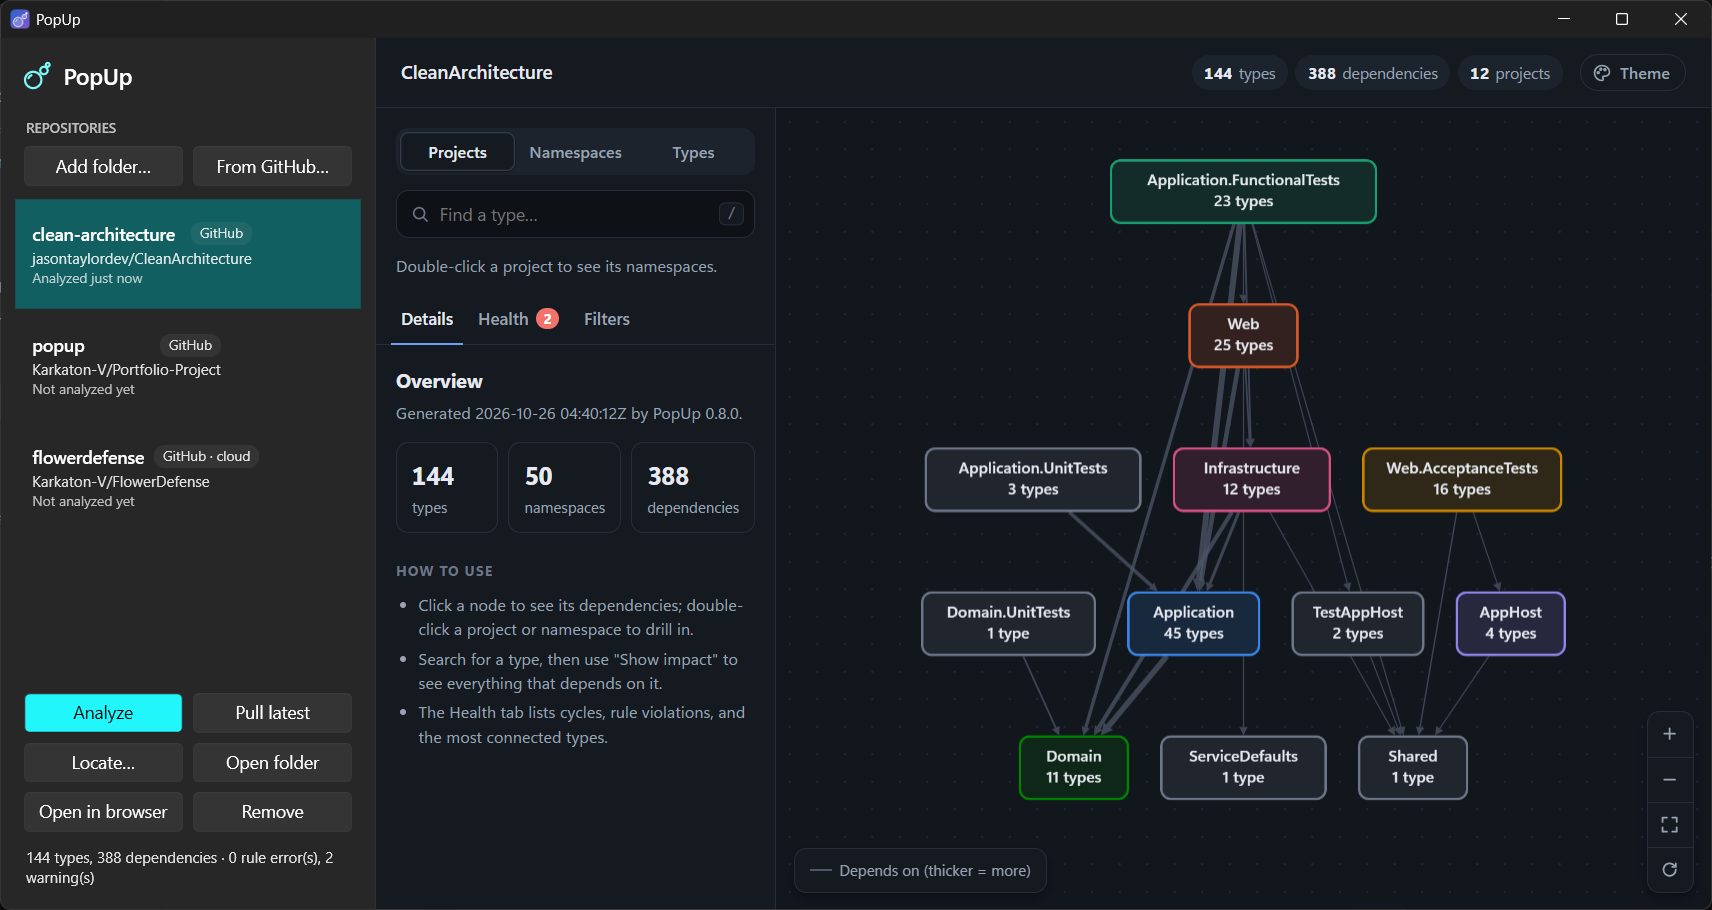
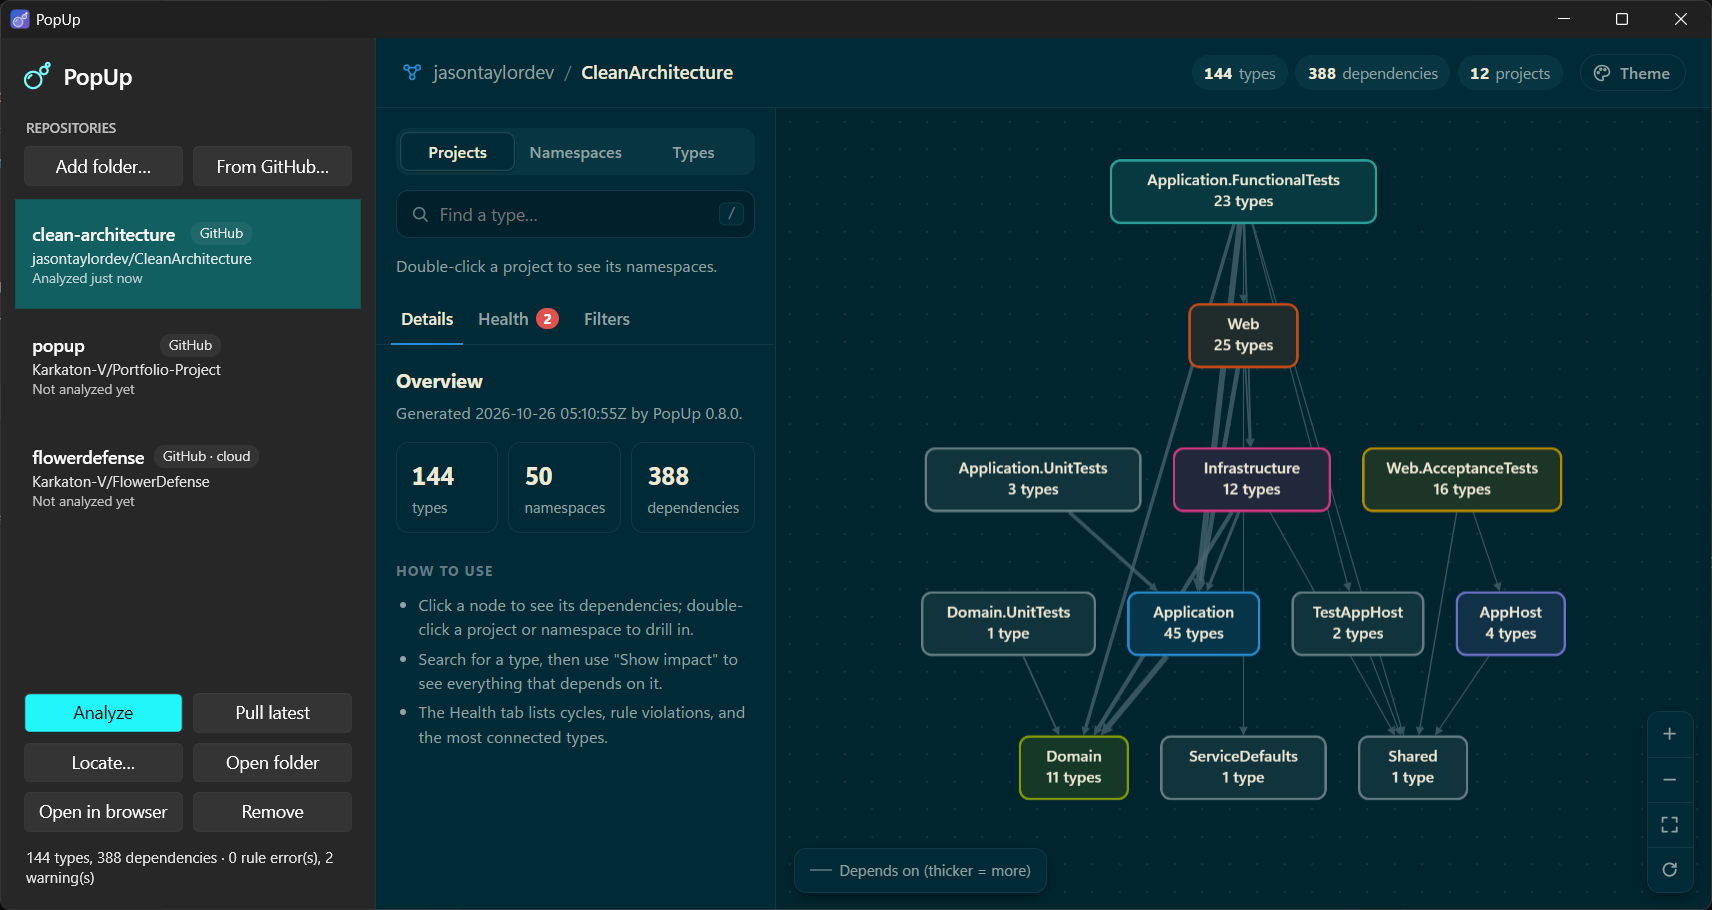
Show where a report's code comes from, and shorten sidebar paths
- Report header: a folder icon with "parent folder / project", or the
  connected-nodes icon with "owner / repository" (owner links to GitHub).
  In the desktop app it replaces the hidden PopUp brand; a standalone
  report shows both.
- The desktop app takes folder vs. GitHub from the saved entry so the
  header matches the sidebar badge; the CLI and the analyze workflow read
  the Git origin.
- Sidebar folder paths with more than two folders are shortened to
  C:/First/.../Last (the tooltip keeps the full path).

diff --git a/src/PopUp.Report/Assets/report.js b/src/PopUp.Report/Assets/report.js
@@ -1142,9 +1142,37 @@
     if (!themePopover.hidden) renderThemePicker();
   });
 
+  // ---------- where the code comes from ----------
+
+  // Fixed icon markup (never data): a folder, or connected nodes for a GitHub repository.
+  const SOURCE_ICONS = {
+    Folder: '<path d="M3 7.5A1.5 1.5 0 0 1 4.5 6h4.3l2 2.2h8.7A1.5 1.5 0 0 1 21 9.7v8.8a1.5 1.5 0 0 1-1.5 1.5h-15A1.5 1.5 0 0 1 3 18.5z" />',
+    GitHub: '<path d="M6 7l6 10M18 7l-6 10M6 7h12" /><circle cx="6" cy="7" r="2.6" /><circle cx="18" cy="7" r="2.6" /><circle cx="12" cy="17" r="2.6" />',
+  };
+
+  // Shows "icon owner /" (GitHub) or "icon parent folder /" before the title.
+  function showSource(source) {
+    const icon = document.createElementNS('http://www.w3.org/2000/svg', 'svg');
+    icon.setAttribute('viewBox', '0 0 24 24');
+    icon.setAttribute('class', 'source-icon');
+    icon.setAttribute('aria-hidden', 'true');
+    icon.innerHTML = SOURCE_ICONS[source.kind] ?? SOURCE_ICONS.Folder;
+
+    const isLink = typeof source.link === 'string' && source.link.startsWith('https://');
+    const owner = isLink
+      ? el('a', { href: source.link, target: '_blank', rel: 'noopener', text: source.owner })
+      : el('span', { text: source.owner });
+
+    const container = document.getElementById('source');
+    container.title = source.kind === 'GitHub' ? 'A GitHub repository' : 'A folder on this computer';
+    container.replaceChildren(icon, owner, el('span', { class: 'crumb-sep', 'aria-hidden': 'true', text: '/' }));
+    container.hidden = false;
+  }
+
   // ---------- start ----------
 
   document.getElementById('title').textContent = data.title;
+  if (data.source) showSource(data.source);
   const stats = [[data.nodes.length, 'types'], [data.edges.length, 'dependencies'], [projectCounts.size, 'projects']];
   document.getElementById('stats').replaceChildren(...stats.map(([value, label]) =>
     el('div', {}, el('dt', { text: label }), el('dd', { text: String(value) }))));

diff --git a/src/PopUp.Report/Assets/report.css b/src/PopUp.Report/Assets/report.css
@@ -197,6 +197,16 @@ svg { fill: none; stroke: currentColor; stroke-width: 2; stroke-linecap: round; 
 
 .divider { width: 1px; height: 20px; background: var(--border-strong); }
 
+.crumb { display: flex; align-items: center; gap: 8px; min-width: 0; }
+
+.source { display: flex; align-items: center; gap: 8px; flex: none; color: var(--muted); font-size: 15px; white-space: nowrap; }
+.source[hidden] { display: none; }
+.source a { color: inherit; text-decoration: none; }
+.source a:hover { color: var(--text); text-decoration: underline; }
+.source-icon { width: 18px; height: 18px; flex: none; color: var(--accent); stroke-width: 1.8; }
+.source-icon circle { fill: var(--accent-soft); }
+.crumb-sep { color: var(--faint); }
+
 .topbar h1 {
   margin: 0;
   font-size: 15px;

diff --git a/src/PopUp.Report/Assets/report.html b/src/PopUp.Report/Assets/report.html
@@ -19,7 +19,11 @@
       <span>PopUp</span>
     </div>
     <span class="divider" aria-hidden="true"></span>
-    <h1 id="title"></h1>
+    <div class="crumb">
+      <!-- "icon owner /" for GitHub, "icon parent folder /" for a folder; filled in by the script when known. -->
+      <span class="source" id="source" hidden></span>
+      <h1 id="title"></h1>
+    </div>
     <dl class="stats" id="stats"></dl>
     <div class="theme-menu">
       <button type="button" class="theme-button" id="theme-button" aria-haspopup="true" aria-expanded="false" aria-controls="theme-popover">

diff --git a/src/PopUp.Repos/LocalRepoFinder.cs b/src/PopUp.Repos/LocalRepoFinder.cs
@@ -2,6 +2,10 @@ using System.Text.RegularExpressions;
 
 namespace PopUp.Repos;
 
+/// <summary>Where some code lives: "owner / name" on GitHub, or "parent folder / folder" on this computer.</summary>
+/// <param name="GitHub">The GitHub repository, when the code is a clone of one.</param>
+public sealed record CodeLocation(string Owner, string Name, GitHubRepoRef? GitHub);
+
 /// <summary>
 /// Finds clones of GitHub repositories that already exist on this computer, so PopUp can use them
 /// instead of downloading another copy. A folder counts when it's a Git repository whose <c>origin</c>
@@ -92,6 +96,37 @@ public static partial class LocalRepoFinder
                 Search(child, levelsLeft - 1);
             }
         }
+    }
+
+    /// <summary>
+    /// Describes where the code in <paramref name="folder"/> comes from: the GitHub repository its Git
+    /// repository was cloned from, or otherwise the folder itself and the folder that contains it.
+    /// </summary>
+    public static CodeLocation Describe(string folder)
+    {
+        var full = System.IO.Path.TrimEndingDirectorySeparator(System.IO.Path.GetFullPath(folder));
+        var root = FindRoot(full) ?? full;
+        if (ReadOrigin(root) is { } origin)
+        {
+            return new CodeLocation(origin.Owner, origin.Name, origin);
+        }
+
+        return new CodeLocation(System.IO.Path.GetFileName(System.IO.Path.GetDirectoryName(root)) ?? "", System.IO.Path.GetFileName(root), null);
+    }
+
+    /// <summary>The folder of the Git repository that contains <paramref name="folder"/>, or null if it isn't in one.</summary>
+    public static string? FindRoot(string folder)
+    {
+        for (var current = new DirectoryInfo(folder); current is not null; current = current.Parent)
+        {
+            var git = System.IO.Path.Combine(current.FullName, ".git");
+            if (Directory.Exists(git) || File.Exists(git))
+            {
+                return current.FullName;
+            }
+        }
+
+        return null;
     }
 
     /// <summary>The GitHub repository a local clone's <c>origin</c> remote points at, or null.</summary>

diff --git a/src/PopUp.Cli/Commands/ReportCommand.cs b/src/PopUp.Cli/Commands/ReportCommand.cs
@@ -1,6 +1,7 @@
 using PopUp.Core;
 using PopUp.Core.Rules;
 using PopUp.Report;
+using PopUp.Repos;
 
 namespace PopUp.Cli.Commands;
 
@@ -32,9 +33,26 @@ internal static class ReportCommand
         var graph = await session.LoadGraphAsync(cancellationToken);
         var settings = session.Config?.Report ?? new ReportSettings();
 
+        // The header reads "owner / title" for a clone of a GitHub repository, "parent folder / title" otherwise.
+        // A report made from a saved graph.json has no folder to describe.
+        var input = arguments.Positionals.FirstOrDefault() ?? ".";
+        var fromFolder = Directory.Exists(input);
+        var location = session.Input.EndsWith(".json", StringComparison.OrdinalIgnoreCase)
+            ? null
+            : LocalRepoFinder.Describe(fromFolder ? input : session.InputDirectory);
+
         var html = HtmlReportWriter.Write(graph, new ReportOptions
         {
-            Title = arguments.Option("title") ?? settings.Title ?? Path.GetFileNameWithoutExtension(session.Input),
+            // Run on a folder, the title is the folder (or repository) name, like the desktop app; run on a
+            // solution or project file, it's that file's name.
+            Title = arguments.Option("title") ?? settings.Title
+                ?? (fromFolder && location is not null ? location.Name : Path.GetFileNameWithoutExtension(session.Input)),
+            Source = location switch
+            {
+                null => null,
+                { GitHub: { } gitHub } => new ReportSource(ReportSourceKind.GitHub, gitHub.Owner, gitHub.WebUrl),
+                _ => new ReportSource(ReportSourceKind.Folder, location.Owner),
+            },
             Theme = (arguments.Option("theme") ?? settings.Theme ?? ReportThemes.Default).ToLowerInvariant(),
             ToolVersion = CheckCommand.ToolVersion(),
             Check = session.Config is null ? null : ArchitectureChecker.Check(graph, session.Config),

diff --git a/src/PopUp.Desktop/ViewModels/RepoViewModel.cs b/src/PopUp.Desktop/ViewModels/RepoViewModel.cs
@@ -11,8 +11,8 @@ public sealed class RepoViewModel(RegisteredRepo repo, string reportsDirectory) 
 
     public string Name => Repo.Name;
 
-    /// <summary>"owner/name" for GitHub repositories, otherwise the folder.</summary>
-    public string Detail => Repo.GitHub ?? Repo.Path;
+    /// <summary>"owner/name" for GitHub repositories, otherwise the folder (shortened; the tooltip has it in full).</summary>
+    public string Detail => Repo.GitHub ?? Format.ShortPath(Repo.Path);
 
     public bool IsGitHub => Repo.GitHub is not null;
 
@@ -38,6 +38,19 @@ public sealed class RepoViewModel(RegisteredRepo repo, string reportsDirectory) 
 
 internal static class Format
 {
+    /// <summary>
+    /// A folder path short enough for the sidebar: with more than two folders, only the first and last are kept,
+    /// so <c>C:\Users\me\code\Shop</c> becomes <c>C:/Users/.../Shop</c>.
+    /// </summary>
+    public static string ShortPath(string path)
+    {
+        var root = Path.GetPathRoot(path) ?? "";
+        var folders = path[root.Length..].Split(['\\', '/'], StringSplitOptions.RemoveEmptyEntries);
+        var drive = root.TrimEnd('\\', '/').Replace('\\', '/');
+        string[] shown = folders.Length > 2 ? [folders[0], "...", folders[^1]] : folders;
+        return string.Join('/', shown.Prepend(drive));
+    }
+
     public static string Relative(DateTimeOffset at)
     {
         var elapsed = DateTimeOffset.Now - at;

diff --git a/src/PopUp.Desktop/Services/RepoAnalyzer.cs b/src/PopUp.Desktop/Services/RepoAnalyzer.cs
@@ -34,9 +34,19 @@ public static class RepoAnalyzer
         var graph = await SolutionAnalyzer.AnalyzeAsync(solution, progress, cancellationToken, new ProjectFilter(config?.Exclude ?? []));
         var check = config is null ? null : ArchitectureChecker.Check(graph, config);
 
+        // The header matches the sidebar: "owner / name" for a repository linked to GitHub, otherwise
+        // "parent folder / folder" (even if that folder happens to be a clone of something).
+        var folder = Path.TrimEndingDirectorySeparator(Path.GetFullPath(repo.Path));
+        var location = GitHubRepoRef.TryParse(repo.GitHub, out var linked)
+            ? new CodeLocation(linked.Owner, linked.Name, linked)
+            : new CodeLocation(Path.GetFileName(Path.GetDirectoryName(folder)) ?? "", Path.GetFileName(folder), null);
+
         var html = HtmlReportWriter.Write(graph, new ReportOptions
         {
-            Title = config?.Report.Title ?? repo.GitHub ?? repo.Name,
+            Title = config?.Report.Title ?? location.Name,
+            Source = location.GitHub is { } gitHub
+                ? new ReportSource(ReportSourceKind.GitHub, gitHub.Owner, gitHub.WebUrl)
+                : new ReportSource(ReportSourceKind.Folder, location.Owner),
             Theme = config?.Report.Theme?.ToLowerInvariant() ?? ReportThemes.Default,
             ToolVersion = Version,
             Check = check,

diff --git a/tests/PopUp.Repos.Tests/LocalRepoFinderTests.cs b/tests/PopUp.Repos.Tests/LocalRepoFinderTests.cs
@@ -89,6 +89,30 @@ public sealed class LocalRepoFinderTests : IDisposable
     }
 
     [Fact]
+    public void Describes_a_clone_by_its_github_owner_and_name_even_from_a_subfolder()
+    {
+        var clone = Clone("GitHub/Portfolio Project", "https://github.com/Karkaton-V/Portfolio-Project.git");
+        Directory.CreateDirectory(Path.Combine(clone, "samples", "ShopSample"));
+
+        var location = LocalRepoFinder.Describe(Path.Combine(clone, "samples", "ShopSample"));
+
+        Assert.Equal(("Karkaton-V", "Portfolio-Project"), (location.Owner, location.Name));
+        Assert.Equal("https://github.com/Karkaton-V/Portfolio-Project", location.GitHub?.WebUrl);
+    }
+
+    [Fact]
+    public void Describes_a_plain_folder_by_its_parent_and_its_own_name()
+    {
+        var folder = Path.Combine(_root, "popup-samples", "CleanArchitecture");
+        Directory.CreateDirectory(folder);
+
+        var location = LocalRepoFinder.Describe(folder + Path.DirectorySeparatorChar);
+
+        Assert.Equal(("popup-samples", "CleanArchitecture"), (location.Owner, location.Name));
+        Assert.Null(location.GitHub);
+    }
+
+    [Fact]
     public void Skips_folders_that_dont_exist()
     {
         Assert.Empty(LocalRepoFinder.Find([Path.Combine(_root, "missing")]));

diff --git a/src/PopUp.Report/HtmlReportWriter.cs b/src/PopUp.Report/HtmlReportWriter.cs
@@ -8,9 +8,23 @@ using PopUp.Core.Rules;
 
 namespace PopUp.Report;
 
+/// <summary>Where the analyzed code lives, shown before the title as "owner / title" or "parent folder / title".</summary>
+/// <param name="Owner">The GitHub owner, or the name of the folder that contains the project's folder.</param>
+/// <param name="Link">The repository's page on GitHub, if it's a GitHub repository.</param>
+public sealed record ReportSource(ReportSourceKind Kind, string Owner, string? Link = null);
+
+public enum ReportSourceKind
+{
+    Folder,
+    GitHub,
+}
+
 public sealed record ReportOptions
 {
     public required string Title { get; init; }
+
+    /// <summary>Where the code comes from; shown as a breadcrumb before the title when set.</summary>
+    public ReportSource? Source { get; init; }
 
     public string ToolVersion { get; init; } = "";
 
@@ -73,6 +87,7 @@ public static partial class HtmlReportWriter
         var data = new
         {
             options.Title,
+            options.Source,
             options.ToolVersion,
             GeneratedAt = options.GeneratedAt.ToString("u"),
             Theme = options.Theme.ToLowerInvariant(),

diff --git a/tests/PopUp.Report.Tests/HtmlReportWriterTests.cs b/tests/PopUp.Report.Tests/HtmlReportWriterTests.cs
@@ -105,6 +105,23 @@ public class HtmlReportWriterTests
     }
 
     [Fact]
+    public void Embeds_where_the_code_comes_from_only_when_known()
+    {
+        var html = HtmlReportWriter.Write(Graph, new ReportOptions
+        {
+            Title = "FlowerDefense",
+            Source = new ReportSource(ReportSourceKind.GitHub, "Karkaton-V", "https://github.com/Karkaton-V/FlowerDefense"),
+        });
+
+        var source = EmbeddedData(html).GetProperty("source");
+        Assert.Equal("GitHub", source.GetProperty("kind").GetString());
+        Assert.Equal("Karkaton-V", source.GetProperty("owner").GetString());
+        Assert.Equal("https://github.com/Karkaton-V/FlowerDefense", source.GetProperty("link").GetString());
+
+        Assert.False(EmbeddedData(Write(Graph)).TryGetProperty("source", out _));
+    }
+
+    [Fact]
     public void Includes_rule_results_when_given()
     {
         var config = ArchitectureConfig.Parse("""

diff --git a/README.md b/README.md
@@ -257,6 +257,8 @@ finds the sample's deliberate violations (exit code 3).
 `popup report` writes one self-contained HTML file. The page, its script, Cytoscape.js, and the graph data are
 all inlined, so it opens offline, with no server, and can be attached to a CI run or emailed.
 
+- **Where it came from**: the header puts the GitHub owner (linked to the repository) before the title when the
+  code is a clone of a GitHub repository, or the parent folder otherwise, each with its own icon.
 - **Projects → namespaces → types.** Drawing hundreds of types at once is unreadable, so the report starts at the
   project level (in layered solutions, projects are the layers) and you double-click to drill in. Edges are
   weighted by how many dependencies they carry, and namespace cycles are drawn in red. Add `#level=namespace` or
